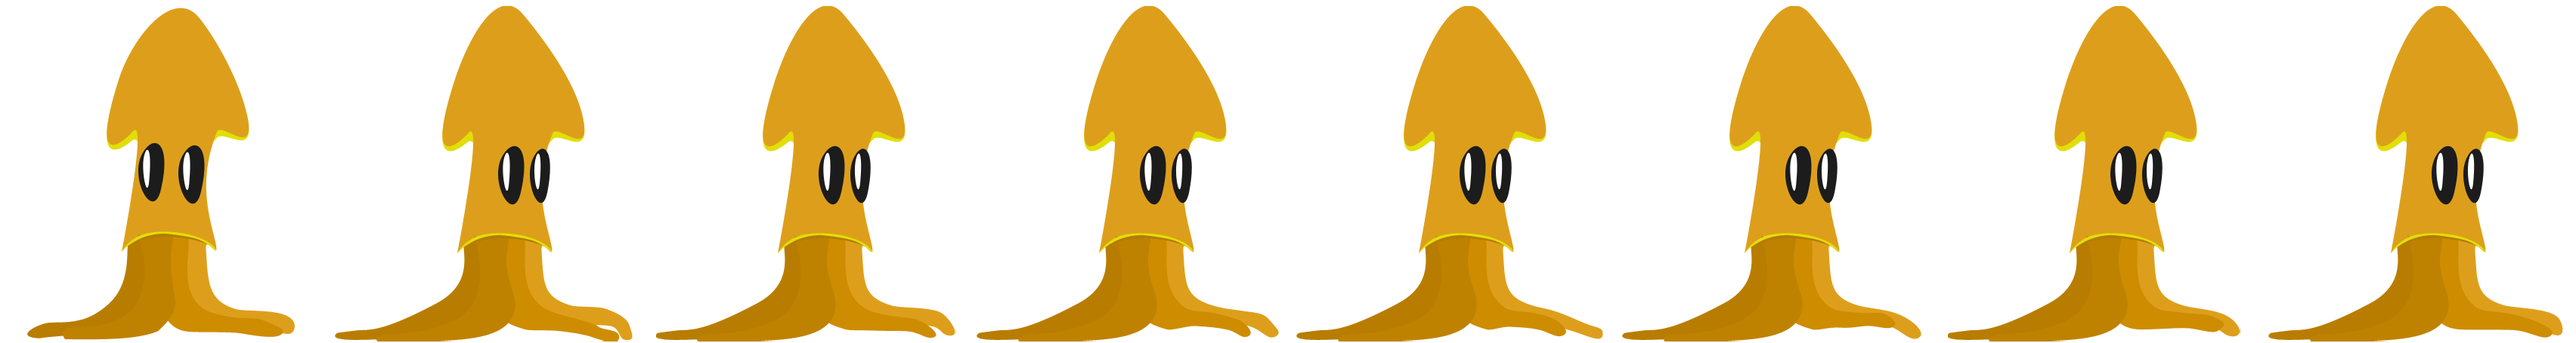
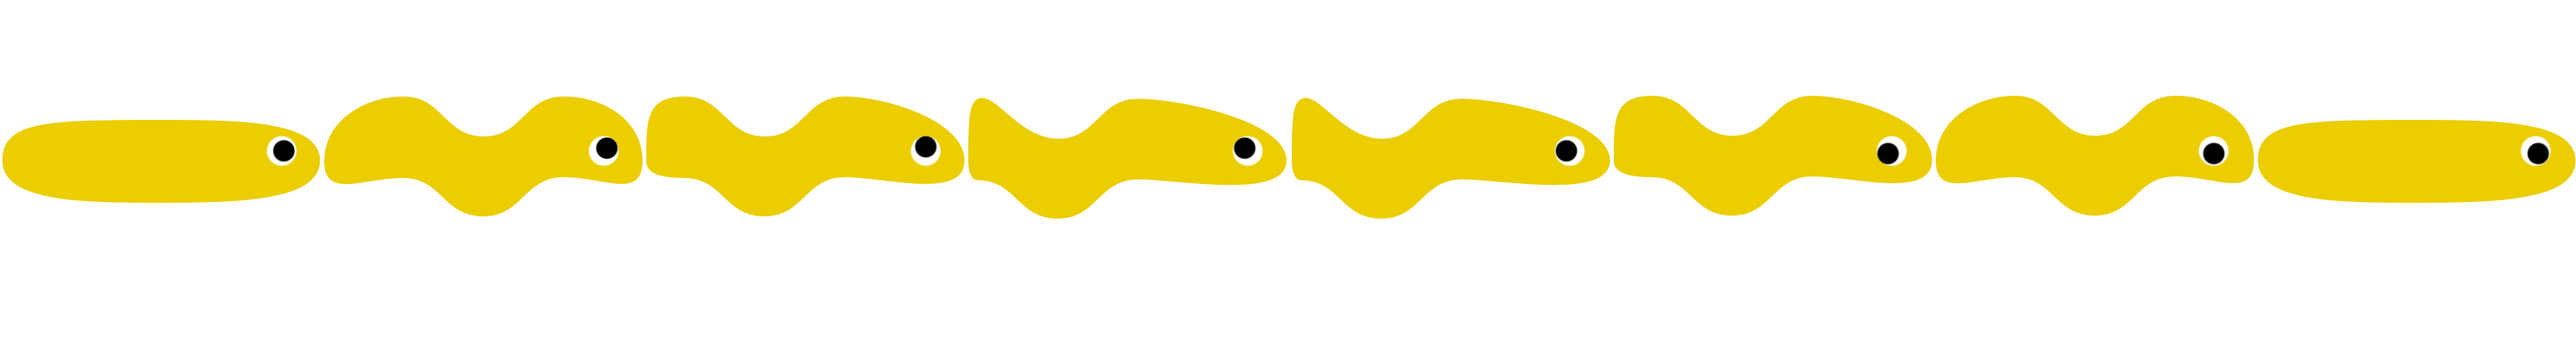
added squid sprites and separated squid movement from image changes

diff --git a/main.py b/main.py
@@ -36,8 +36,8 @@ except:
 playZoneWidth = WIDTH - 80
 playZoneHeight = HEIGHT - 180
 playZone = pygame.draw.rect(screen, BLUE, (40, 40, playZoneWidth, playZoneHeight))
-squid = player.Player((playZoneWidth - (426/3) + 80), (playZoneHeight - (455/3) + 80), 426, 455,"Images/SquidWalk.png")
-eel = player.Player(40, 40, 426, 455,"Images/EelWalk.png")
+squid = player.Player((playZoneWidth - (426/3) + 80), (playZoneHeight - (455/3) + 80), 426, 455,"Images/SquidWalk.png", "Images/EelWalkUp.png")
+eel = player.Player(40, 40, 426, 455,"Images/EelWalk.png", "Images/EelWalkUpSmall.png")
 
 wall1 = pygame.draw.rect(screen, GREY, (330, 220, 40, 460))
 wall2 = pygame.draw.rect(screen, GREY, (1550, 220, 40, 460))
@@ -200,14 +200,13 @@ while True:
 
     # eel speed changes
     if pygame.Rect.colliderect(wall1, eel.rect) or pygame.Rect.colliderect(wall2, eel.rect) or pygame.Rect.colliderect(wall3, eel.rect) or pygame.Rect.colliderect(wall4, eel.rect):
-        eel.speed = 2
+        eel.speed = 4
     elif pygame.Rect.colliderect(squidInk, eel.rect) and squid.inkCounter != 0:
-        eel.speed = 2
+        eel.speed = 4
     elif pressed[K_SPACE] and chargeCooldown == 0:
         charge = True
     elif charge == False:
-        eel.speed = 5
-
+        eel.speed = 7
     #Player Collisions
     # if pygame.Rect.colliderect(squid.rect, eel.rect):
     #     eel.speed = 2
@@ -231,22 +230,33 @@ while True:
             squid.currentImage = 0
             squid.render(screen)
 
-        # eel movement
+        # eel movement (images)
+        if pressed[K_w] and eel.y > 40:
+            eel.images = eel.imageUp
+            eel.width = 40
+        elif pressed[K_s] and eel.y < playZoneHeight - eel.height + 40:
+            eel.images = pygame.transform.flip(eel.imageUp, 0, 1)
+            eel.width = 40
+        elif pressed[K_d] and eel.x < playZoneWidth - eel.width + 40:
+            eel.images = eel.imageRight
+            eel.width = 106
+        elif pressed[K_a] and eel.x > 40:
+            eel.images = pygame.transform.flip(eel.imageRight, 1, 0)
+            eel.width = 106
+        else:
+            eel.currentImage = 0
+
+        # eel movement (movement)
         if pressed[K_w] and eel.y > 40:
             eel.y -= eel.speed
         elif pressed[K_s] and eel.y < playZoneHeight - eel.height + 40:
             eel.y += eel.speed
         if pressed[K_d] and eel.x < playZoneWidth - eel.width + 40:
             eel.x += eel.speed
-            eel.render(screen)
         elif pressed[K_a] and eel.x > 40:
             eel.x -= eel.speed
-            flippedImage = pygame.transform.flip(eel.images, 1, 0)
-            screen.blit(flippedImage, (eel.x, eel.y), ((eel.numImages - eel.currentImage) * eel.width, 0, eel.width, eel.height))
-        else:
-            eel.currentImage = 0
-            eel.render(screen)
 
+    eel.render(screen)
     squid.update()
     eel.update()
 

diff --git a/player.py b/player.py
@@ -2,7 +2,7 @@ import pygame
 
 class Player:
 
-    def __init__(self, x, y, width, height, imagePath):
+    def __init__(self, x, y, width, height, imagePath, imagePathUp):
         self.x = x
         self.y = y
         self.width = width/4
@@ -11,6 +11,10 @@ class Player:
 
         self.images = pygame.image.load(imagePath)
         self.images = pygame.transform.scale(self.images, (self.width*8, self.height))
+        self.imageRight = pygame.image.load(imagePath)
+        self.imageRight = pygame.transform.scale(self.images, (self.width * 8, self.height))
+        self.imageUp = pygame.image.load(imagePathUp)
+        self.imageUp = pygame.transform.scale(self.imageUp, (40 * 8, self.height))
         self.numImages = 7
         self.currentImage = 0
         self.counter = 0
